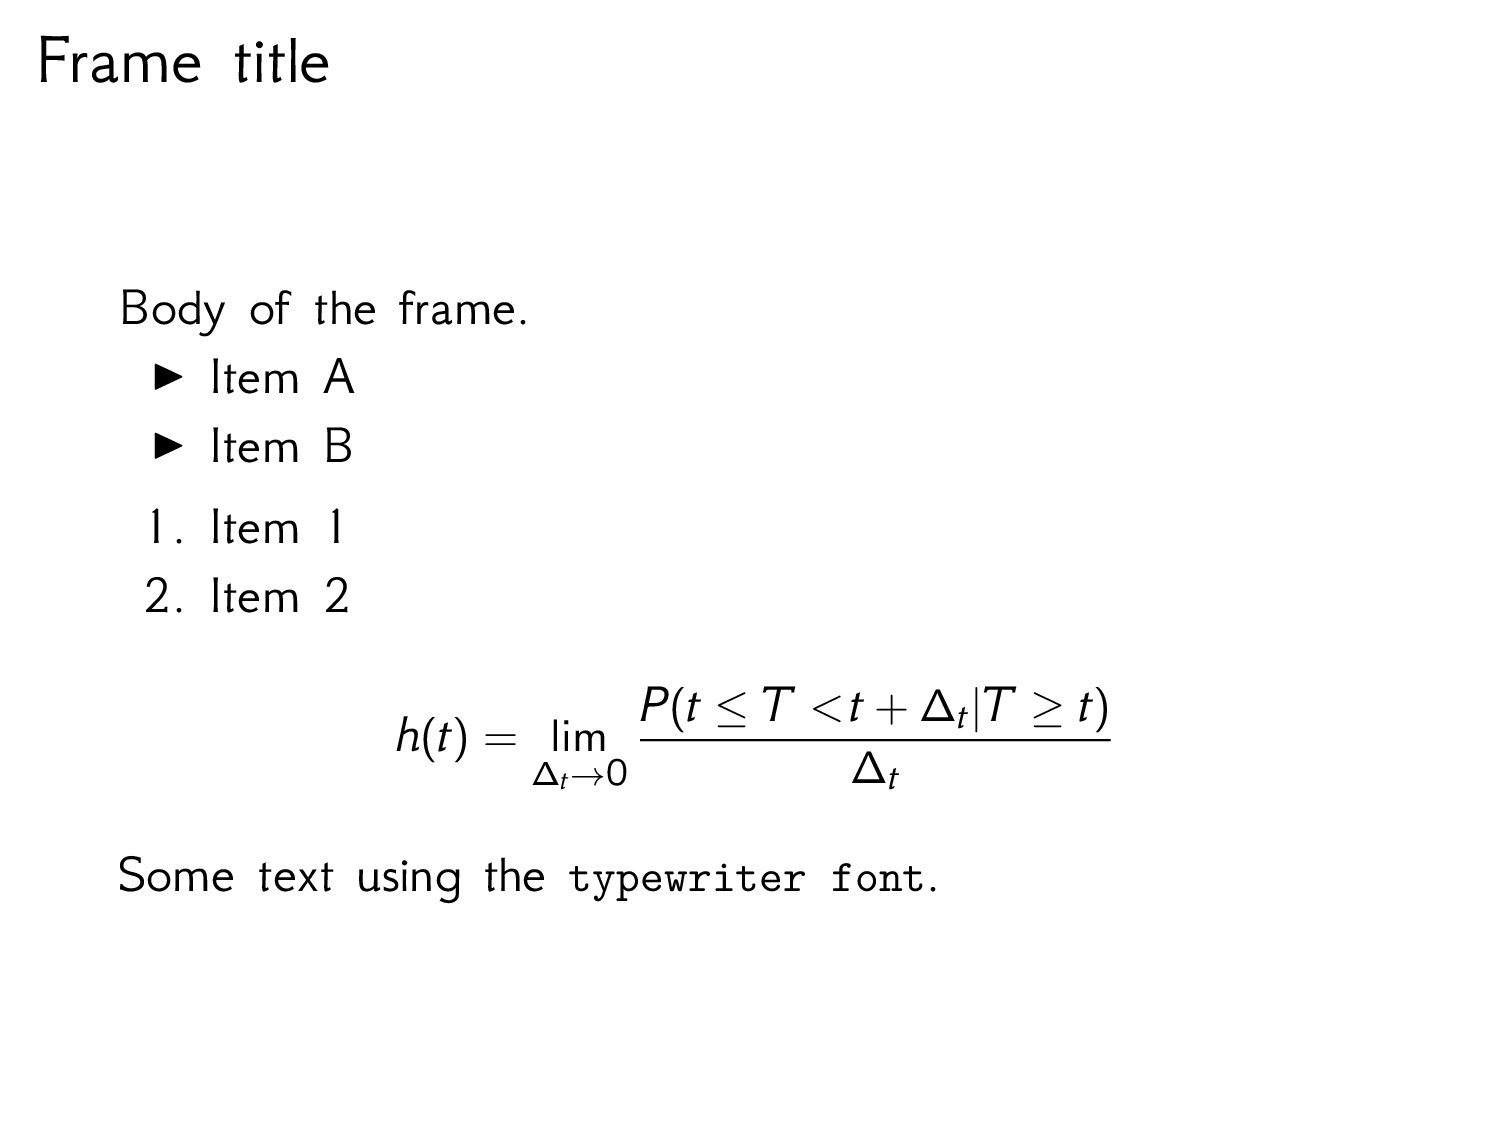
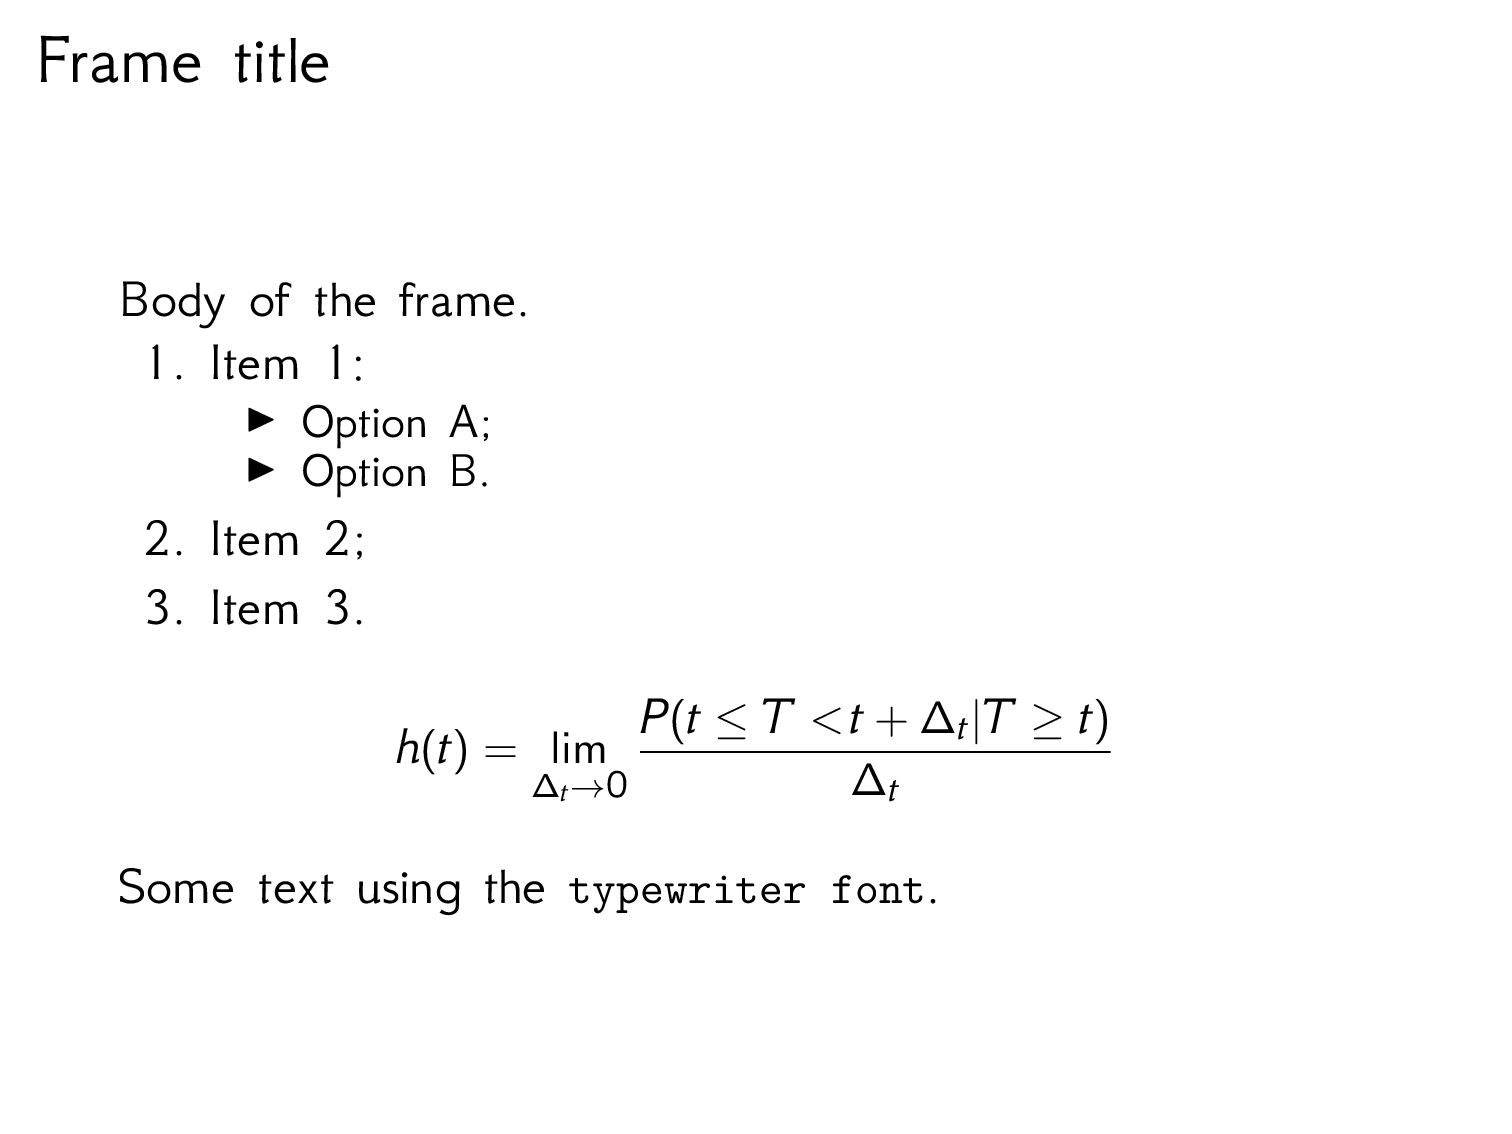
Updated style of lists subitems

diff --git a/default.tex b/default.tex
@@ -17,14 +17,14 @@
 \begin{frame}{Frame title}
 	Body of the frame.
 
-	\begin{itemize}
-		\item Item A
-		\item Item B
-	\end{itemize}
-
 	\begin{enumerate}
-		\item Item 1
-		\item Item 2
+		\item Item 1:
+		\begin{itemize}
+			\item Option A;
+			\item Option B.
+		\end{itemize}
+		\item Item 2;
+		\item Item 3.
 	\end{enumerate}
 
 	\[
